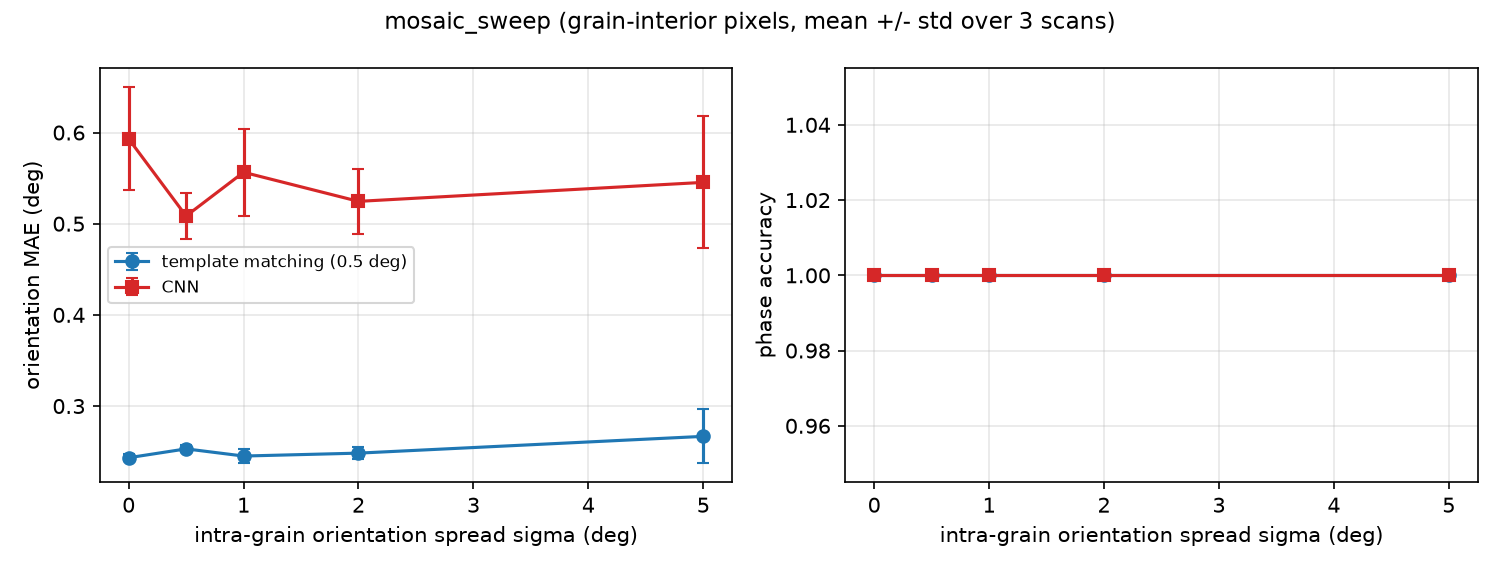
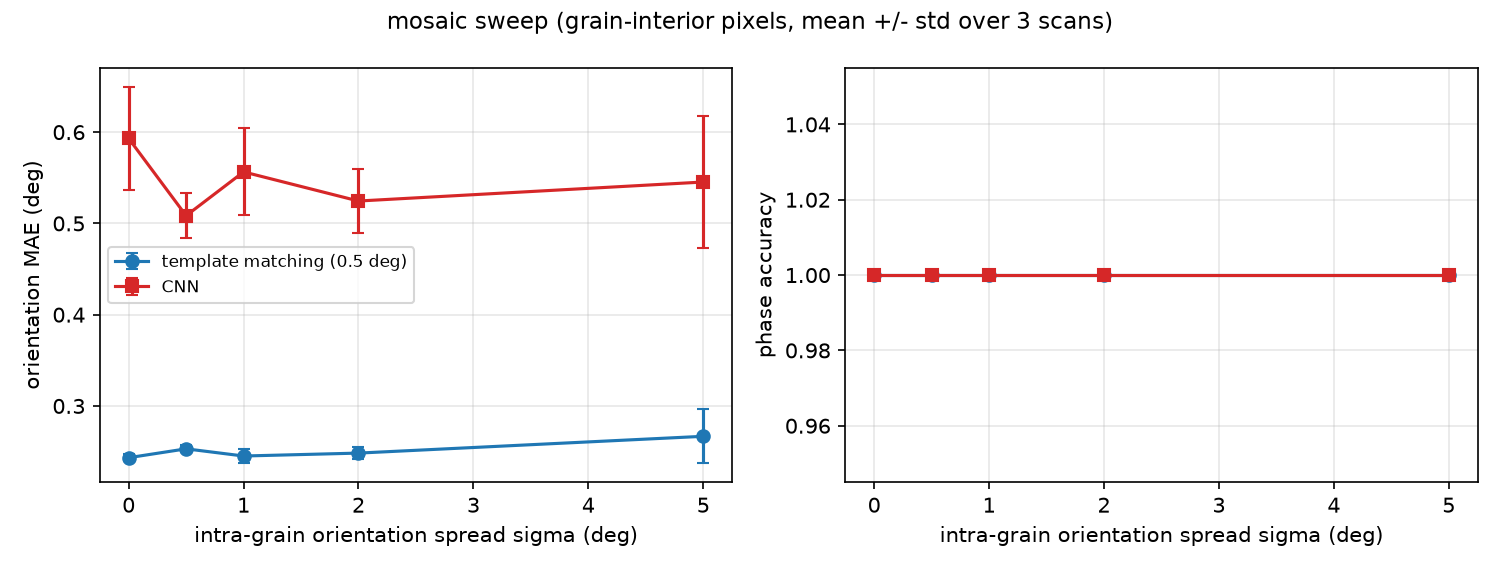
chore: readable MAE ticks and cleaner figure titles
The template-tuning MAE axis (log scale) rendered with a single labeled
tick; add explicit scalar ticks. Derive the clustering panel k from the
config, stop conflating training and validation in the training-figure
title, and humanise the sweep suptitles. Figures regenerated from the
unchanged committed results; hero.png and pattern_gallery.png regenerate
byte-identically and are untouched.

diff --git a/scripts/make_figures.py b/scripts/make_figures.py
@@ -91,7 +91,10 @@ def _sweep_figure(
                 ax.set_xscale("log")
             ax.grid(alpha=0.3)
     axes[0].legend(fontsize=8)
-    fig.suptitle(title or f"{name} (grain-interior pixels, mean +/- std over 3 scans)", fontsize=11)
+    fig.suptitle(
+        title or f"{name.replace('_', ' ')} (grain-interior pixels, mean +/- std over 3 scans)",
+        fontsize=11,
+    )
     fig.tight_layout()
     fig.savefig(FIG / out, dpi=150)
     plt.close(fig)
@@ -238,6 +241,8 @@ def template_tuning_figure() -> None:
     )
     axes[1].axhline(cnn["seconds_per_pattern"]["mean"] * 1e3, color="#d62728", ls="--", label="CNN")
     axes[0].set_yscale("log")
+    axes[0].set_yticks([0.25, 0.35, 0.5, 0.7, 1.0])
+    axes[0].yaxis.set_major_formatter(matplotlib.ticker.ScalarFormatter())
     for ax, ylabel in [(axes[0], "orientation MAE (deg)"), (axes[1], "cost (ms per pattern)")]:
         ax.set_xlabel("library step (deg)")
         ax.set_ylabel(ylabel)
@@ -265,7 +270,7 @@ def clustering_figure() -> None:
 
     fig, axes = plt.subplots(1, 3, figsize=(11.5, 3.6))
     axes[0].imshow(res.labels, cmap="tab20", interpolation="nearest")
-    axes[0].set_title(f"k-means clusters, k=8 (ARI {ari:.2f})", fontsize=9)
+    axes[0].set_title(f"k-means clusters, k={int(params.n_grains)} (ARI {ari:.2f})", fontsize=9)
     axes[1].imshow(scan.grain_id, cmap="tab20", interpolation="nearest")
     axes[1].set_title("ground-truth grains", fontsize=9)
     for ax in axes[:2]:
@@ -301,7 +306,8 @@ def training_figure() -> None:
         ax.set_xlabel("step")
         ax.grid(alpha=0.3)
     fig.suptitle(
-        "CNN training on the randomised validation set (doses 10-3000, mixtures included)",
+        "CNN training curves; validation on the randomised stream (doses 10-3000, "
+        "mixtures included)",
         fontsize=10,
     )
     fig.tight_layout()
